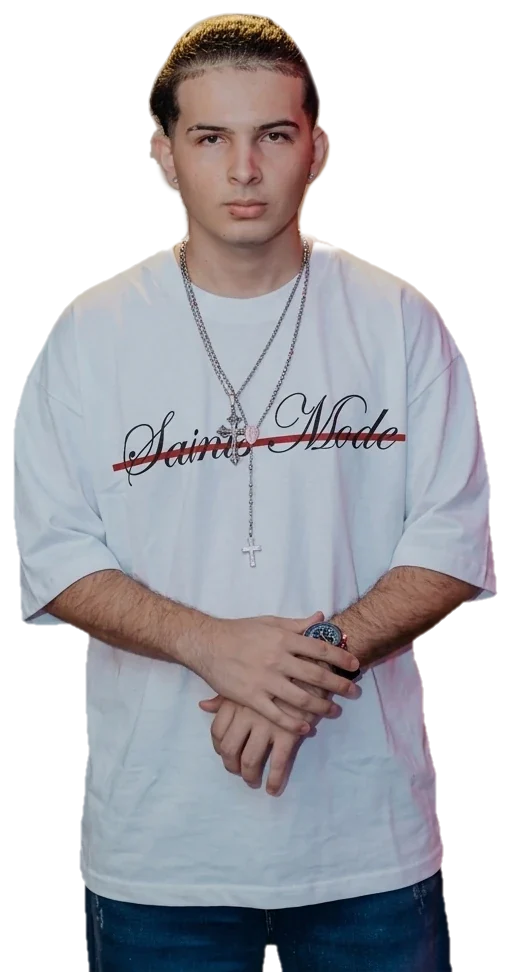
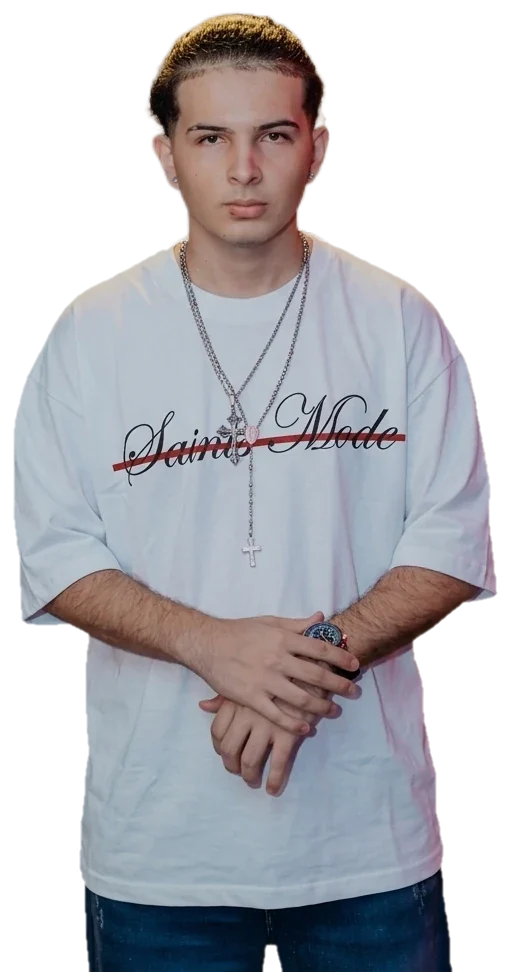
Angel Victoria: cabeza del muchacho recortada con la guía de Brayan (orejas completas)
Claude-Session: https://claude.ai/code/session_013ynmKTYERfCmJQKP2pb1Nx

diff --git a/index.html b/index.html
@@ -86,7 +86,7 @@
       "./js/core/cart-store.js": "./js/core/cart-store.js?v=0a8191d0",
       "./js/core/store.js": "./js/core/store.js?v=3f80d2ec",
       "./js/data/lookbook.js": "./js/data/lookbook.js?v=4e79963a",
-      "./js/data/products.js": "./js/data/products.js?v=220cacd7",
+      "./js/data/products.js": "./js/data/products.js?v=cd2a25ec",
       "./js/main.js": "./js/main.js?v=37902f06",
       "./js/utils/dom.js": "./js/utils/dom.js?v=9f430828",
       "./js/utils/format.js": "./js/utils/format.js?v=1576479a",

diff --git a/js/data/products.js b/js/data/products.js
@@ -165,7 +165,7 @@ export const PRODUCTS = [
 
 // Versión de las fotos: cámbiala cuando reemplaces una foto con el mismo nombre,
 // así el navegador no sigue mostrando la vieja guardada en caché.
-const FOTOS_VERSION = '2026-10-22f';
+const FOTOS_VERSION = '2026-10-22g';
 PRODUCTS.forEach((p) => p.gallery?.forEach((set) => set.forEach((g) => { g.src += `?v=${FOTOS_VERSION}`; })));
 
 /** Productos visibles en la tienda principal (sin los de drops bloqueados). */
